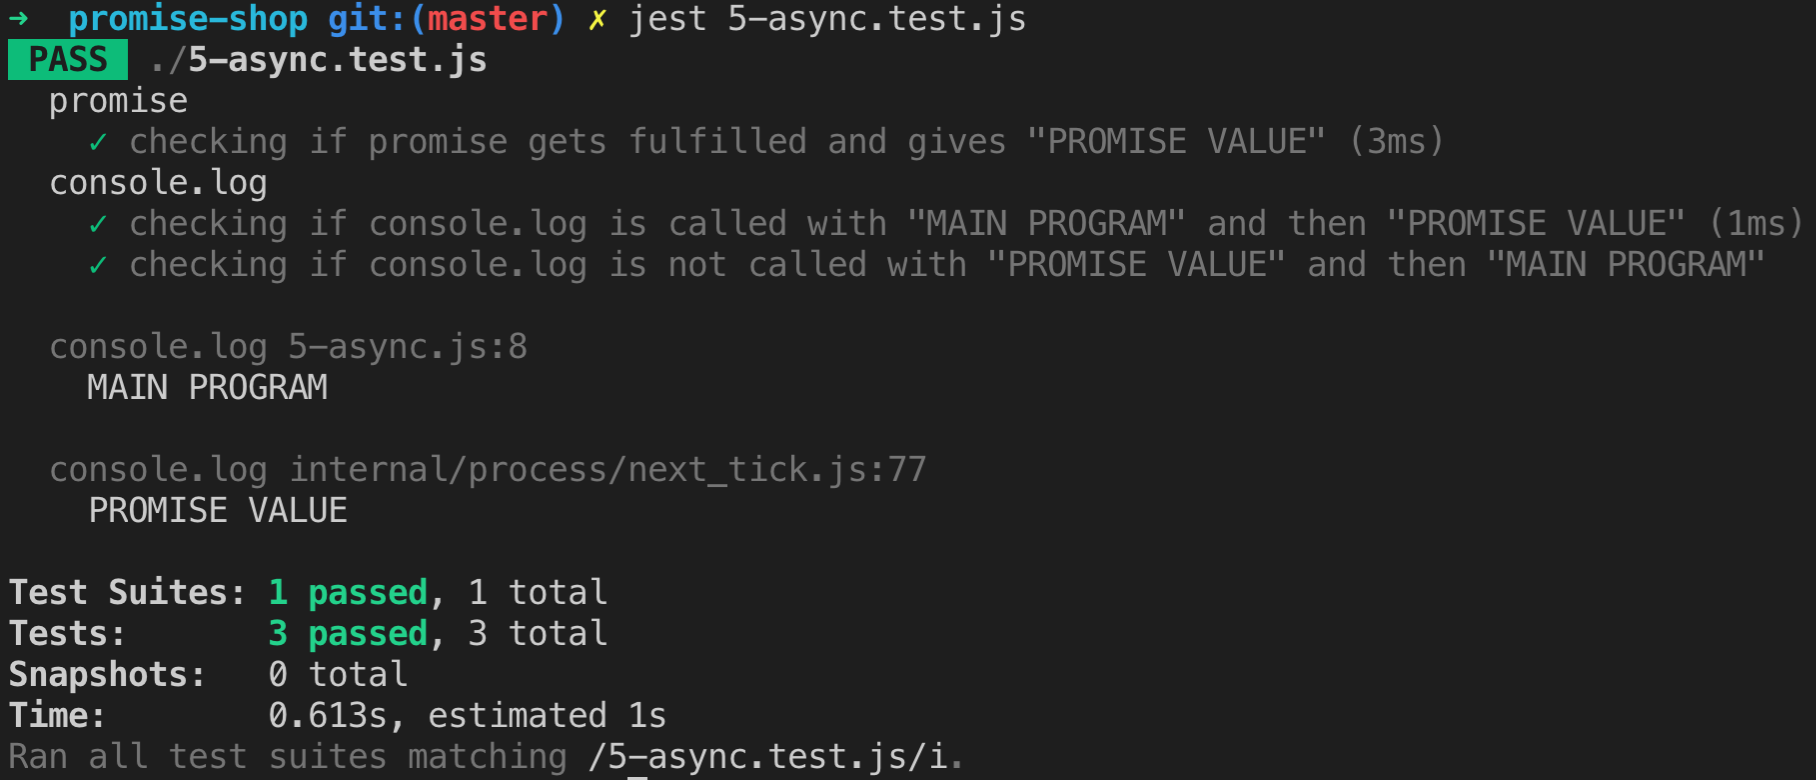
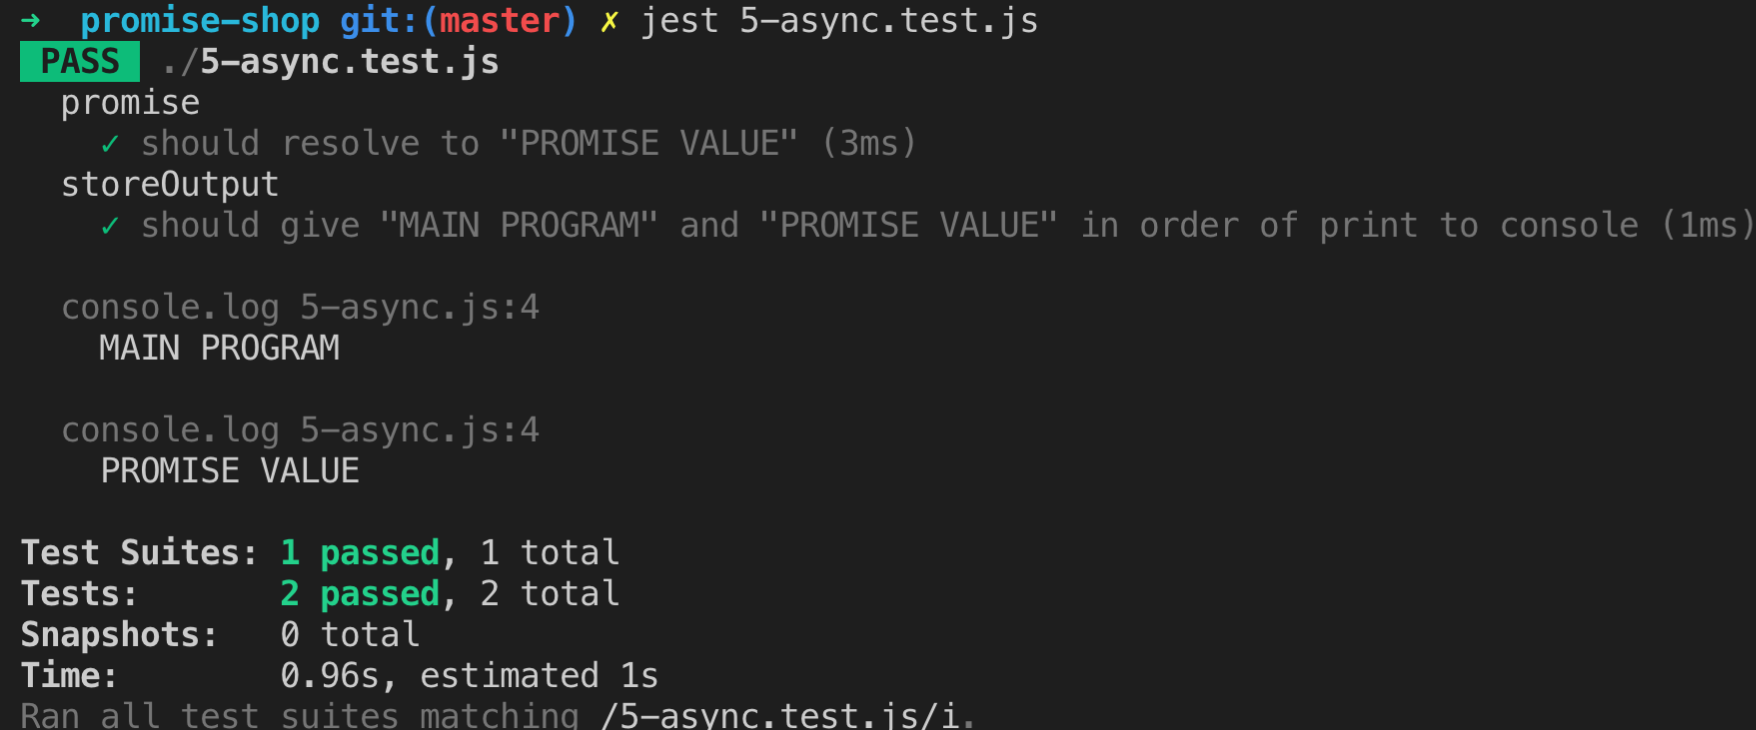
Tweaked promise test cases

diff --git a/promise-shop/5-async.test.js b/promise-shop/5-async.test.js
@@ -1,20 +1,12 @@
 const prog= require('./5-async');
-console.log = jest.fn();
 describe('promise', () => {
-    test('checking if promise gets fulfilled and gives "PROMISE VALUE"', () => {
-        expect.assertions(1);
+    it('should resolve to "PROMISE VALUE"', () => {
         return expect(prog.promise).resolves.toEqual('PROMISE VALUE');
     });
 });
-
-describe('console.log', () => {
-    test('checking if console.log is called with "MAIN PROGRAM" and then "PROMISE VALUE"', () => {
-        prog.b();
-        return (expect(console.log).toHaveBeenCalled() && expect(console.log).mock.calls== [['MAIN PROGRAM'],['PROMISE VALUE']]);
-    });
-    test('checking if console.log is not called with "PROMISE VALUE" and then "MAIN PROGRAM"', () => {
-        prog.b();
-        return (expect(console.log).toHaveBeenCalled() && expect(console.log).mock.calls== [['PROMISE VALUE'],['MAIN PROGRAM']]);
+describe('storeOutput', () => {
+    it('should give "MAIN PROGRAM" and "PROMISE VALUE" in order of print to console', () => {
+        return expect(prog.storeOutput).toEqual(['MAIN PROGRAM','PROMISE VALUE']);
     });
 });
 

diff --git a/promise-shop/1-warmup.test.js b/promise-shop/1-warmup.test.js
@@ -1,18 +1,18 @@
-const prog= require('./1-warm-up');
+const tryingSetTimeout= require('./1-warm-up');
 jest.useFakeTimers();
-describe('a()', ()=> {
-    test('checking if a() calls setTimeout in min 300 ms', () => {
-        prog.a();
+describe('timeoutTest())', ()=> {
+    it('should call setTimeout in min 300 ms', () => {
+        tryingSetTimeout.timeoutTest();
         expect(setTimeout).toHaveBeenLastCalledWith(expect.any(Function), 300);
     });
-    test('checking if a() does not call setTimeout in min 350 ms', () => {
-        prog.a();
+    it('should not call setTimeout in min 350 ms', () => {
+        tryingSetTimeout.timeoutTest();
         expect(setTimeout).not.toHaveBeenLastCalledWith(expect.any(Function), 350);
     });
 });
 
-describe('c()', ()=> {
-    test('checking if c() prints "TIMED OUT!"', () => {
-        expect(prog.c()).toEqual('TIMED OUT!');
+describe('executeOnTimeout()', ()=> {
+    it('should print "TIMED OUT!"', () => {
+        expect(tryingSetTimeout.executeOnTimeout()).toEqual('TIMED OUT!');
     });
 });

diff --git a/promise-shop/3-reject.test.js b/promise-shop/3-reject.test.js
@@ -1,18 +1,9 @@
-const prog= require('./3-reject');
-jest.useFakeTimers();
+const rejectTestPromise= require('./3-reject');
 describe('promise', () => {
-    test('checking if promise is "REJECTED!"', () => {
-        expect.assertions(1);
-        return expect(prog.promise).rejects.toEqual(new Error('REJECTED!'));
+    it('should reject with Error "REJECTED!"', () => {
+        expect(rejectTestPromise).rejects.toEqual(new Error('REJECTED!'));
     });
-});
-describe('promise function', () => {
-    test('checking if a() calls setTimeout in min 300 ms', () => {
-        prog.a();
-        expect(setTimeout).toHaveBeenLastCalledWith(expect.any(Function), 300);
-    });
-    test('checking if a() does not call setTimeout in min 350 ms', () => {
-        prog.a();
-        expect(setTimeout).not.toHaveBeenLastCalledWith(expect.any(Function), 350);
+    it('should not reject with anything other than Error "REJECTED!"', () => {
+        expect(rejectTestPromise).rejects.not.toEqual('REJECTED!');
     });
 });

diff --git a/promise-shop/2-fulfillpromise.test.js b/promise-shop/2-fulfillpromise.test.js
@@ -1,18 +1,9 @@
-const prog= require('./2-fulfill-promise');
-jest.useFakeTimers();
+const fulfillPromise= require('./2-fulfill-promise');
 describe('promise', () => {
-    test('checking if promise is "FULFILLED!"', () => {
-        expect.assertions(1);
-        return expect(prog.promise).resolves.toEqual('FULFILLED!');
+    it('should resolve with "FULFILLED!"', () => {
+        return expect(fulfillPromise).resolves.toEqual('FULFILLED!');
     });
-});
-describe('promise function', () => {
-    test('checking if a() calls setTimeout in min 300 ms', () => {
-        prog.a();
-        expect(setTimeout).toHaveBeenLastCalledWith(expect.any(Function), 300);
-    });
-    test('checking if a() does not call setTimeout in min 350 ms', () => {
-        prog.a();
-        expect(setTimeout).not.toHaveBeenLastCalledWith(expect.any(Function), 350);
+    it('should not resolve with anything other than "FULFILLED!"', () => {
+        return expect(fulfillPromise).resolves.not.toEqual('ABC');
     });
 });

diff --git a/promise-shop/4-resolve-not-reject.test.js b/promise-shop/4-resolve-not-reject.test.js
@@ -1,11 +1,9 @@
-const prog= require('./4-resolve-not-reject');
+const promise= require('./4-resolve-not-reject');
 describe('promise', () => {
-    test('checking if promise gets rejected and gives "I DID NOT FIRE"', () => {
-        expect.assertions(1);
-        return expect(prog.promise).rejects.toEqual(new Error('I DID NOT FIRE'));
+    it('should get resolved with "I FIRED"', () => {
+        return expect(promise).resolves.toEqual('I FIRED');
     });
-    test('checking if promise gets fulfilled and gives "I FIRED"', () => {
-        expect.assertions(1);
-        return expect(prog.promise).resolves.toEqual('I FIRED');
+    it('should get not get resolved with anything other than "I FIRED"', () => {
+        return expect(promise).resolves.not.toEqual('ABC');
     });
 });

diff --git a/promise-shop/5-async.js b/promise-shop/5-async.js
@@ -1,11 +1,16 @@
-var a, promise;
-const b= () => {
-    a= (fulfill, reject) => {
+var promiseConstructor, promise;
+var storeOutput=[]
+var promiseExecute= (val) => {
+    console.log(val);
+    storeOutput.push(val);
+}
+const mainFunc= () => {
+    promiseConstructor= (fulfill, reject) => {
         fulfill('PROMISE VALUE');
     };
-    promise = new Promise(a);
-    promise.then(console.log);
-    console.log('MAIN PROGRAM');
+    promise = new Promise(promiseConstructor);
+    promise.then(promiseExecute);
+    promiseExecute('MAIN PROGRAM');
 }
-b()
-module.exports={promise, a, b};
+mainFunc()
+module.exports={promise, storeOutput};

diff --git a/promise-shop/1-warm-up.js b/promise-shop/1-warm-up.js
@@ -1,10 +1,10 @@
-const b='TIMED OUT!'
-const c=()=>{ 
-    console.log(b); 
-    return b;
+const timeoutPrint='TIMED OUT!'
+const executeOnTimeout=()=>{ 
+    console.log(timeoutPrint); 
+    return timeoutPrint;
 }
-const a=()=> { 
-    setTimeout(c, 300);
+const timeoutTest=()=> { 
+    setTimeout(executeOnTimeout, 300);
 }
-a();
-module.exports={a, c};
+timeoutTest();
+module.exports={timeoutTest, executeOnTimeout};

diff --git a/promise-shop/4-resolve-not-reject.js b/promise-shop/4-resolve-not-reject.js
@@ -1,10 +1,10 @@
-const a= (fulfill, reject) => {
+const promiseConstructor= (fulfill, reject) => {
     fulfill('I FIRED');
     reject(new Error('I DID NOT FIRE'));
 };
-const promise = new Promise(a);
+const promise = new Promise(promiseConstructor);
 const onRejected= (error) => {
     console.log(error.message)
 }
 promise.then(console.log, onRejected);
-module.exports={promise, a};
+module.exports=promise;

diff --git a/promise-shop/3-reject.js b/promise-shop/3-reject.js
@@ -1,9 +1,9 @@
-const a= (fulfill, reject) => {
+const promiseConstructor= (fulfill, reject) => {
     setTimeout(() => reject(new Error('REJECTED!')), 300);
 };
-const promise = new Promise(a);
+const promise = new Promise(promiseConstructor);
 const onReject= (error) => {
     console.log(error.message)
 }
 promise.then(null, onReject);
-module.exports={promise, a};
+module.exports=promise;

diff --git a/promise-shop/2-fulfill-promise.js b/promise-shop/2-fulfill-promise.js
@@ -1,6 +1,6 @@
-const a= (fulfill, reject) => {
+const promiseConstructor= (fulfill, reject) => {
     setTimeout(() => fulfill('FULFILLED!'), 300);
 };
-const promise = new Promise(a);
+const promise = new Promise(promiseConstructor);
 promise.then(console.log);
-module.exports={promise, a};
+module.exports=promise;
